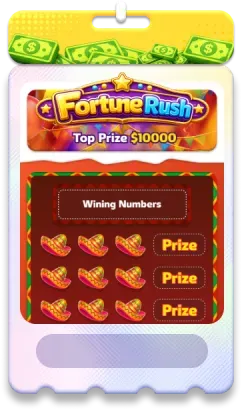
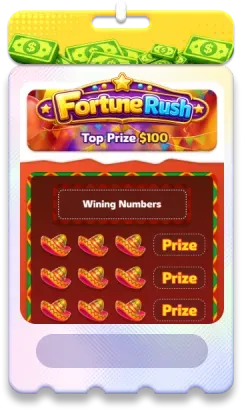
1111

Changed region(s): [[0.2893, 0.322, 0.7521, 0.3805]]

diff --git a/lib/ASTool/ASTBAEventTool.dart b/lib/ASTool/ASTBAEventTool.dart
@@ -1,47 +1,52 @@
 import 'dart:convert';
-import 'package:flutter/services.dart';
+import 'package:flutter/foundation.dart';
 import 'package:http/http.dart' as http;
 import 'package:flutter_tba_info/flutter_tba_info.dart';
 import 'ASLogger.dart';
-import 'as_extension_help.dart';
 
 
 void as_session_fire() async {
   var baseBody = await ASRequestHelpers().baseBody();
-  baseBody["arccos"] = 'cal';
+  baseBody["buddy"] = {};
   ASRequestHelpers().post(baseBody, 2);
 }
 
 void as_ad_fire(Map<String, dynamic> body) async {
   var baseBody = await ASRequestHelpers().baseBody();
-  baseBody["yakima"] = body;
+  Map<String, dynamic> bliss = {};
+  for (String key in body.keys){
+    bliss[key] = body[key];
+  }
+  baseBody["bliss"] = bliss;
   ASRequestHelpers().post(baseBody, 3);
 }
 
 void as_event_fire(String name, Map<String, dynamic> body) async {
   var baseBodys = await ASRequestHelpers().baseBody();
-  baseBodys["arccos"] = name;
-  baseBodys['soil'] = body;
+  baseBodys["flash"] = name;
+  for (String key in body.keys){
+    baseBodys['${key}\$chintzy'] = body[key];
+  }
   ASRequestHelpers().post(baseBodys, 0);
 }
 
 void as_install_fire() async {
   var baseBody = await ASRequestHelpers().baseBody();
   var map = await FlutterTbaInfo.instance.getReferrerMap();
-  Map<String, dynamic> mannitol = {
-    "yipping": map['build'],
-    'mercator' : map['referrer_url'],
-    "vary": map['install_version'],
-    "exercise": map['user_agent'],
-    "juicy": 'molar',
-    "generous": map['referrer_click_timestamp_seconds'],
-    "sorry": map['install_begin_timestamp_seconds'],
-    "derriere": map['referrer_click_timestamp_server_seconds'],
-    "nassau": map['install_begin_timestamp_server_seconds'],
-    "oxen": map['install_first_seconds'],
-    "bindery": map['last_update_seconds'],
+  Map<String, dynamic> riga = {
+    "italic": map['build'],
+    'caustic' : map['referrer_url'],
+    "phoebe": map['install_version'],
+    "krill": map['user_agent'],
+    "kennedy": 'touch',
+    "value": map['referrer_click_timestamp_seconds'],
+    "dumpty": map['install_begin_timestamp_seconds'],
+    "maze": map['referrer_click_timestamp_server_seconds'],
+    "railroad": map['install_begin_timestamp_server_seconds'],
+    "lundberg": map['install_first_seconds'],
+    "baneful": map['last_update_seconds'],
   };
-  baseBody["mannitol"] = mannitol;
+  baseBody["riga"] = riga;
   ASRequestHelpers().post(baseBody, 1);
 }
 
@@ -55,13 +60,15 @@ class ASRequestHelpers {
   ASRequestHelpers._internal();
 
   static String cloak_Url =
-      "https://fancy.scratchcardearngopro.com/sault/commute";
+      "https://pegging.lccstackauraascratch.com/succeed/brute/brad";
 
-  static String tba_event_Url =
-      "https://test-mark.scratchcardearngopro.com/molten/pimp/girt";
+  static String tba_event_Url_test =
+      "https://test-pullover.lccstackauraascratch.com/baron/soybean/annulus";
 
-  // static String tba_event_Url =
-  //     "https://mark.scratchcardearngopro.com/brant/schooner/highland";
+  static String tba_event_Url_release =
+      "https://pullover.lccstackauraascratch.com/welt/moliere";
+
+  static String tba_event_Url = kDebugMode ? tba_event_Url_test : tba_event_Url_release;
 
   final Map<String, String> normalHeader = {
     'Content-Type': 'application/json',
@@ -72,7 +79,7 @@ class ASRequestHelpers {
   };
 
   Future<dynamic> getCloak() async {
-    var url = Uri.parse("${cloak_Url}?risen=${await FlutterTbaInfo.instance.getBundleId()}&toluene=soon&species=${await FlutterTbaInfo.instance.getAppVersion()}&qs=${DateTime.now().millisecondsSinceEpoch}");
+    var url = Uri.parse("${cloak_Url}?smelly=${await FlutterTbaInfo.instance.getBundleId()}&eruption=lucid&hardin=${await FlutterTbaInfo.instance.getAppVersion()}&waken=${DateTime.now().millisecondsSinceEpoch}");
     asLog.info("aurastack play land config request ${url}");
     try {
       var response = await http.get(
@@ -138,45 +145,37 @@ class ASRequestHelpers {
 extension RequestHelpersExtension on ASRequestHelpers {
   Future<String> getConfigQueryString() async {
     var queryBody = {
-      "risen": await FlutterTbaInfo.instance.getBundleId(),
-      "toluene": 'soon',
-      "species": await FlutterTbaInfo.instance.getAppVersion(),
+      "smelly": await FlutterTbaInfo.instance.getBundleId(),
+      "eruption": 'lucid',
+      "hardin": await FlutterTbaInfo.instance.getAppVersion(),
     };
     asLog.debug(
       'queryBody=$queryBody',
     );
     return Uri(queryParameters: queryBody).query;
   }
-
+  // 通用字段
   Future<Map<String, dynamic>> baseBody() async {
     Map<String, dynamic> baseBody = {};
 
-    Map<String, dynamic> apical = {
-      "risen": await FlutterTbaInfo.instance.getBundleId(),
-      "shrank": await FlutterTbaInfo.instance.getLogId(),
-      "palomar": await FlutterTbaInfo.instance.getDeviceModel(),
-      'guffaw' : await FlutterTbaInfo.instance.getOperator(),
+    Map<String, dynamic> calf = {
+      "smelly": await FlutterTbaInfo.instance.getBundleId(),
+      "eruption": 'lucid',
+      'hardin' : await FlutterTbaInfo.instance.getAppVersion(),
+      'preston' : await FlutterTbaInfo.instance.getDistinctId(),
+      "eastman": await FlutterTbaInfo.instance.getLogId(),
+      'waken' : DateTime.now().millisecondsSinceEpoch,
+      "palermo": await FlutterTbaInfo.instance.getManufacturer(),
+      'ague' : await FlutterTbaInfo.instance.getBrand(),
+      "connally": await FlutterTbaInfo.instance.getDeviceModel(),
+      'antelope' : await FlutterTbaInfo.instance.getOsVersion(),
+      'hoop' : await FlutterTbaInfo.instance.getOperator(),
+      'handsome' : await FlutterTbaInfo.instance.getSystemLanguage(),
+      'hearst' : await FlutterTbaInfo.instance.getAndroidId(),
+      "fix": await FlutterTbaInfo.instance.getGaid(),
+      "manifold": await FlutterTbaInfo.instance.getOsCountry(),
     };
-    baseBody['apical'] = apical;
-
-    Map<String, dynamic> stuck = {
-      "toluene": 'soon',
-      'species' : await FlutterTbaInfo.instance.getAppVersion(),
-      'qs' : DateTime.now().millisecondsSinceEpoch,
-      "argo": await FlutterTbaInfo.instance.getManufacturer(),
-      'ease' : await FlutterTbaInfo.instance.getBrand(),
-      'gurgle' : await FlutterTbaInfo.instance.getOsVersion(),
-      "codify": await FlutterTbaInfo.instance.getGaid(),
-    };
-    baseBody['stuck'] = stuck;
-
-    Map<String, dynamic> kimberly = {
-      'tonk' : await FlutterTbaInfo.instance.getDistinctId(),
-      'helmsman' : await FlutterTbaInfo.instance.getSystemLanguage(),
-      'synoptic' : await FlutterTbaInfo.instance.getAndroidId(),
-      "susan": await FlutterTbaInfo.instance.getOsCountry(),
-    };
-    baseBody['kimberly'] = kimberly;
+    baseBody['calf'] = calf;
     return baseBody;
   }
 

diff --git a/lib/ASMainVC/ASHome.dart b/lib/ASMainVC/ASHome.dart
@@ -263,7 +263,7 @@ class AShomeState extends State<AShome> with SingleTickerProviderStateMixin {
                           SizedBox(width: 8.w),
                           ASImg(name: 'as_dollar_icon', width: 24, height: 24),
                           ASGradientStrokeText(
-                            text: '7000',
+                            text: '\$80',
                             gradientColors: [
                               '#FFE600'.color(),
                               '#FFFFFF'.color(),
@@ -288,7 +288,7 @@ class AShomeState extends State<AShome> with SingleTickerProviderStateMixin {
                           SizedBox(width: 2.w),
                           ASImg(name: 'as_home_x_s', width: 24, height: 24),
                           SizedBox(width: 2.w),
-                          ASImg(name: 'as_home_x_n', width: 24, height: 24),
+                          ASImg(name: 'as_home_x_s', width: 24, height: 24),
                           SizedBox(width: 8.w),
                         ],
                       ),
@@ -581,7 +581,7 @@ class AShomeState extends State<AShome> with SingleTickerProviderStateMixin {
                           SizedBox(width: 8.w),
                           ASImg(name: 'as_dollar_icon', width: 24, height: 24),
                           ASGradientStrokeText(
-                            text: '7000',
+                            text: '\$100',
                             gradientColors: [
                               '#FFE600'.color(),
                               '#FFFFFF'.color(),
@@ -605,7 +605,7 @@ class AShomeState extends State<AShome> with SingleTickerProviderStateMixin {
                           SizedBox(width: 2.w),
                           ASImg(name: 'as_home_x_s', width: 24, height: 24),
                           SizedBox(width: 2.w),
-                          ASImg(name: 'as_home_x_s', width: 24, height: 24),
+                          ASImg(name: 'as_home_x_n', width: 24, height: 24),
                           SizedBox(width: 8.w),
                         ],
                       ),

diff --git a/test/widget_test.dart b/test/widget_test.dart
@@ -1,30 +1,11 @@
-// This is a basic Flutter widget test.
-//
-// To perform an interaction with a widget in your test, use the WidgetTester
-// utility in the flutter_test package. For example, you can send tap and scroll
-// gestures. You can also use WidgetTester to find child widgets in the widget
-// tree, read text, and verify that the values of widget properties are correct.
-
+import 'package:aurastack/main.dart';
 import 'package:flutter/material.dart';
 import 'package:flutter_test/flutter_test.dart';
 
-import 'package:aurastack/main.dart';
-
 void main() {
-  testWidgets('Counter increments smoke test', (WidgetTester tester) async {
-    // Build our app and trigger a frame.
-    await tester.pumpWidget(const MyApp());
+  test('constructs the application root widget', () {
+    const app = MyApp();
 
-    // Verify that our counter starts at 0.
-    expect(find.text('0'), findsOneWidget);
-    expect(find.text('1'), findsNothing);
-
-    // Tap the '+' icon and trigger a frame.
-    await tester.tap(find.byIcon(Icons.add));
-    await tester.pump();
-
-    // Verify that our counter has incremented.
-    expect(find.text('0'), findsNothing);
-    expect(find.text('1'), findsOneWidget);
+    expect(app, isA<StatefulWidget>());
   });
 }
